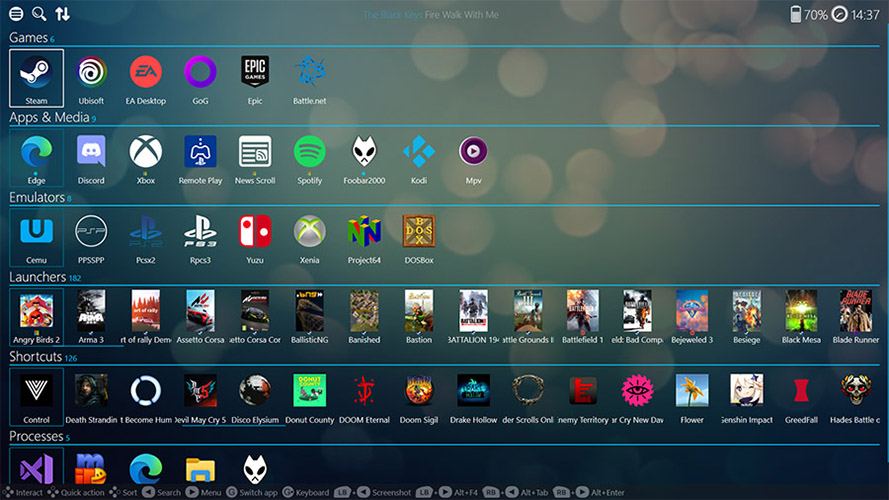
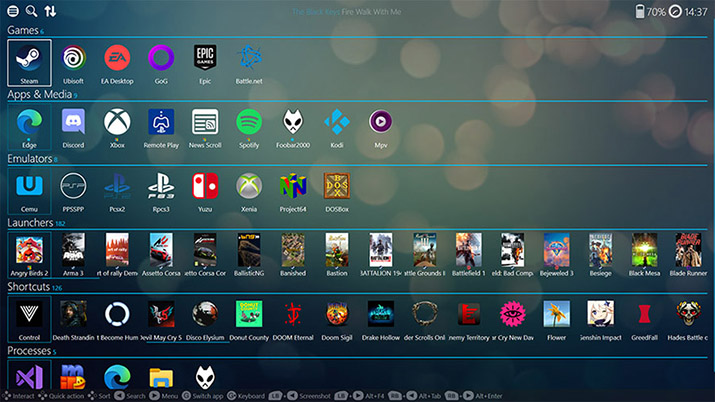
- Updated the readme file and matched screenshot widths.

diff --git a/Readme.md b/Readme.md
@@ -1,31 +1,33 @@
 ![CtrlUI](Screenshots/CtrlUI-screenshot1.jpg)
-![DirectXInput](Screenshots/DirectXInput-screenshot1.jpg)
 ![Keyboard](Screenshots/Keyboard-screenshot1.jpg)
 ![Keypad](Screenshots/Keypad-screenshot1.jpg)
+![DirectXInput](Screenshots/DirectXInput-screenshot1.jpg)
 
 ## Application Description
 CtrlUI (Controller User Interface) is a Windows application, game and emulator launcher for your game controller,
 this application allow you to run all your favorite applications from one location with lots of useful features.
 
 DirectXInput converts your game controller like a DualShock 1, 2, 3, 4 and DualSense 5 to a Xbox (XInput) controller,
-so that it can be used with almost every game and application released that support Xbox controllers.
+so that it can be used with almost every game and application released that has support for Xbox controllers.
 
 Fps Overlayer is a tool that shows the frames per second and the cpu, gpu and memory information.
 
-Keyboard Controller is an on screen keyboard which can be used by your controller.
-
 ## CtrlUI Application Features
-- Set a quick launch application so you can easily run it.
-- Control your system volume with the controllers triggers.
-- Add Windows UWP Applications so you can open them remotely.
-- Make and save a screen capture directly from your controller.
+- Add Windows UWP applications so you can easily launch them.
 - Launch emulators with a rom selected from a rom directory.
-- Open a keyboard which you can control with the controller.
+- Switch to other running processes with your controller.
 
 ## DirectXInput Application Features
 - Easily customize the controller button layout.
+- Make and save a screenshot directly from your controller.
+- Control your system volume and media with your controller.
+- Built-in on screen keyboard which can be used by your controller.
 - Supported controllers: PlayStation 1, 2, 3, 4, 5 and more.
 - Unsupported controllers: Xbox and XInput controllers.
+
+## Fps Overlayer Application Features
+- Show the current frame rate of a running application.
+- Show the current time on your screen while gaming.
 
 ## Installation Instructions
 1) Extract the CtrlUI folder to any directory you want on your computer.
